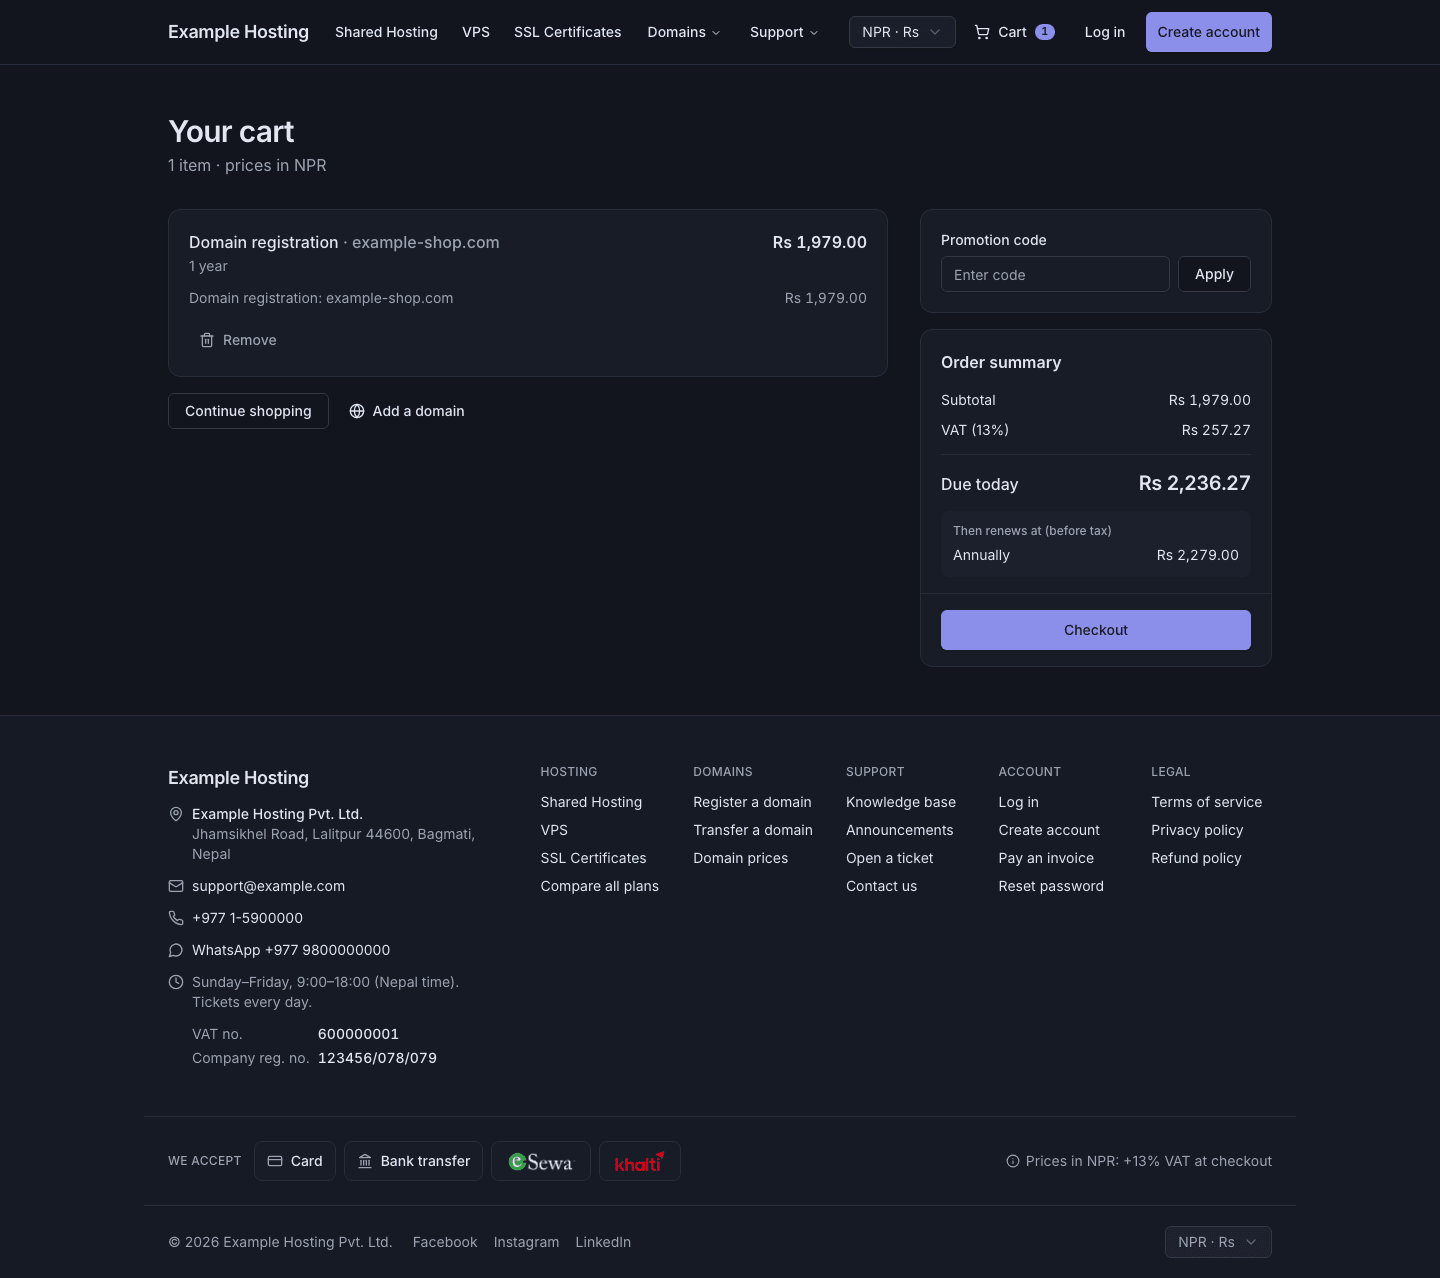
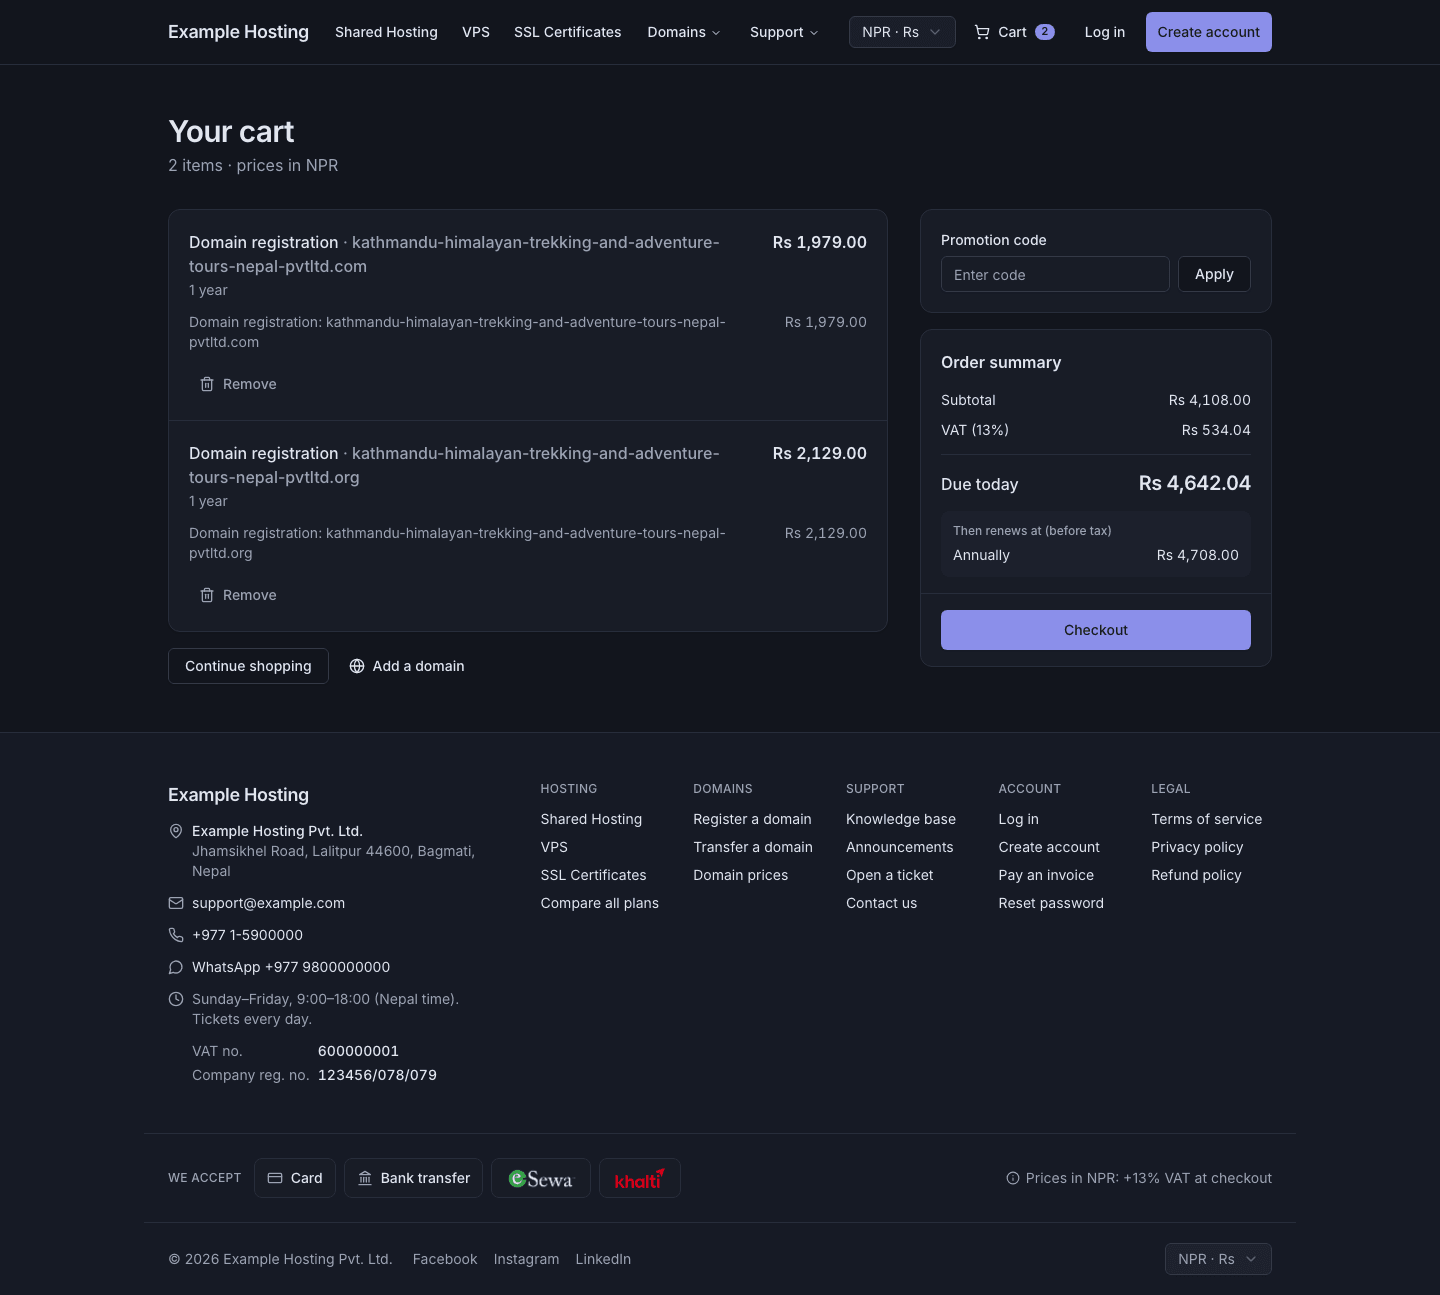
fix(storefront): wrap domain names and the account name instead of truncating them (#353)

diff --git a/billing/resources/js/pages/public/checkout/index.tsx b/billing/resources/js/pages/public/checkout/index.tsx
@@ -192,10 +192,10 @@ export default function Checkout({
                                     />
                                 </span>
                                 <div className="min-w-0">
-                                    <p className="truncate font-medium">
+                                    <p className="font-medium [overflow-wrap:anywhere]">
                                         {account.name}
                                     </p>
-                                    <p className="truncate text-sm text-muted-foreground">
+                                    <p className="text-sm [overflow-wrap:anywhere] text-muted-foreground">
                                         {account.email} · billed in{' '}
                                         {account.currency}
                                     </p>
@@ -412,12 +412,12 @@ export default function Checkout({
                             {cart.items.map((item) => (
                                 <li key={item.key}>
                                     <div className="flex justify-between gap-4">
-                                        <span className="min-w-0 truncate">
-                                            {item.title}
+                                        <span className="min-w-0">
+                                            <span className="block">
+                                                {item.title}
+                                            </span>
                                             {(item.domain ?? item.subtitle) && (
-                                                <span className="text-muted-foreground">
-                                                    {' '}
-                                                    ·{' '}
+                                                <span className="block [overflow-wrap:anywhere] text-muted-foreground">
                                                     {item.domain ??
                                                         item.subtitle}
                                                 </span>
@@ -426,6 +426,7 @@ export default function Checkout({
                                         <Money
                                             amount={item.due_today}
                                             currency={cart.currency}
+                                            className="shrink-0"
                                         />
                                     </div>
                                     <ItemDetails details={item.details} />

diff --git a/billing/resources/js/pages/public/cart/index.tsx b/billing/resources/js/pages/public/cart/index.tsx
@@ -82,7 +82,7 @@ function CartItemCard({
                                         index > 0 && 'pl-3',
                                     )}
                                 >
-                                    <span className="min-w-0 truncate">
+                                    <span className="min-w-0 [overflow-wrap:anywhere]">
                                         {index === 0 ? 'Base plan' : part.label}
                                     </span>
                                     <Money
@@ -93,7 +93,7 @@ function CartItemCard({
                                 </div>
                             ))}
                         <div className="flex justify-between gap-4 text-muted-foreground">
-                            <span className="min-w-0 truncate">
+                            <span className="min-w-0 [overflow-wrap:anywhere]">
                                 {line.kind === 'product'
                                     ? line.breakdown.length > 1
                                         ? 'Plan total'

diff --git a/billing/changelog.md b/billing/changelog.md
@@ -8,7 +8,7 @@ The format follows [Keep a Changelog](https://keepachangelog.com/en/1.1.0/) and 
 
 ### Fixed
 
-- **The storefront cart and checkout no longer scroll sideways on phones, and the checkout sidebar price stays inside its card (#353).** The two-column layout let long rows widen the page to 411-425 px at 390 px; the columns now shrink to the screen (checked at 390, 768 and 1440 px, light and dark). No schema, setting or permission change.
+- **The storefront cart and checkout no longer scroll sideways on phones, and the checkout sidebar price stays inside its card (#353).** The two-column layout let long rows widen the page to 411-425 px at 390 px; the columns now shrink to the screen (checked at 360, 390 and 1440 px, light and dark). Domain names in the checkout summary and cart lines wrap instead of being cut off, so two domains that differ only by extension read differently. No schema, setting or permission change.
 
 - **Registrar jobs for one domain no longer overlap, and none is dropped while waiting (#14).** Registering, transferring, renewing and syncing a domain now share one lock per domain (before, the three jobs only excluded their own kind). A job that finds the domain busy goes back on the queue and tries again after 30 to 45 seconds. The jobs no longer use a fixed number of tries (every wait counts as an attempt in Laravel, so a paid renewal could have failed just by queuing behind another job): they fail after 3 real errors, timeouts or crashes, or if they have not run 24 hours after they were queued, and then alert staff in plain words as before (the registrar queue can be down for hours and still run paid work when it returns). A sync that meets a busy domain skips it (the next hourly run picks it up; **Sync now** says another registrar action is running). Name-server, contact, lock and EPP-code changes stay outside the lock. Upgrade notes: the cache store must support atomic locks (Redis or database); on the `sync` queue driver a job that meets the lock is dropped, so use a real queue driver; the lock must not be taken inside a database transaction (the database cache store aborts a surrounding PostgreSQL transaction when the lock is taken); queued register, transfer and renew jobs keep their unique lock for 25 hours instead of 1. No schema or permission change.
 
